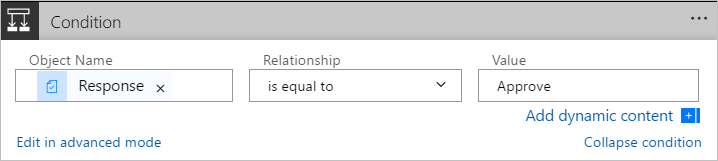
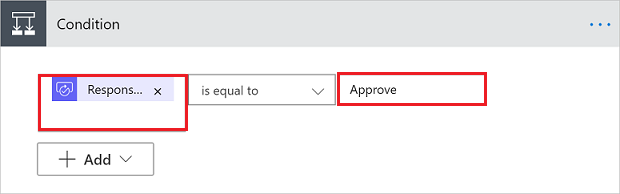
fix issues with instructions

diff --git a/articles/includes/add-approval-condition-response.md b/articles/includes/add-approval-condition-response.md
@@ -1,17 +1,16 @@
-1. Select **+New step**, and then select **Condition** in the list of actions.
-1. in the **Condition** card, and then enter **response** into the search box on the **Add dynamic content from the apps and services used in this flow** card.
-1. On the **Condition** screen, select the first **Choose a value** field to display a list of dynamic content options. Then, select **Responses Approver response**.
+1. Select **New step**, and then select **Condition** in the list of actions.
+1. On the **Condition** screen, select the **Choose a value** field on the left.
 
+   A list of dynamic values display.
+   
+1. Select **Responses Approver response** from the list of dynamic values.
+  
     ![select response token](media/modern-approvals/search-for-response.png)
-1. Select the **Value** box, and then enter **Approve** into the box.
+1. Select the **Choose a value** box on the right, and then enter **Approve** into the box.
 
    > [!NOTE]
    > The valid responses to the **Approvals - Start an approval** action are "Approve" and "Reject". These responses are case-sensitive.
 
-1. Your **Condition** card should now show:
-    
-    * Object name: *Response*
-    * Relationship: *Is equal to*
-    * Value: *Approve*
+1. Your **Condition** card should now show"
 
     ![View of the condition card](media/modern-approvals/response-condition-test.png "View of the condition card")
